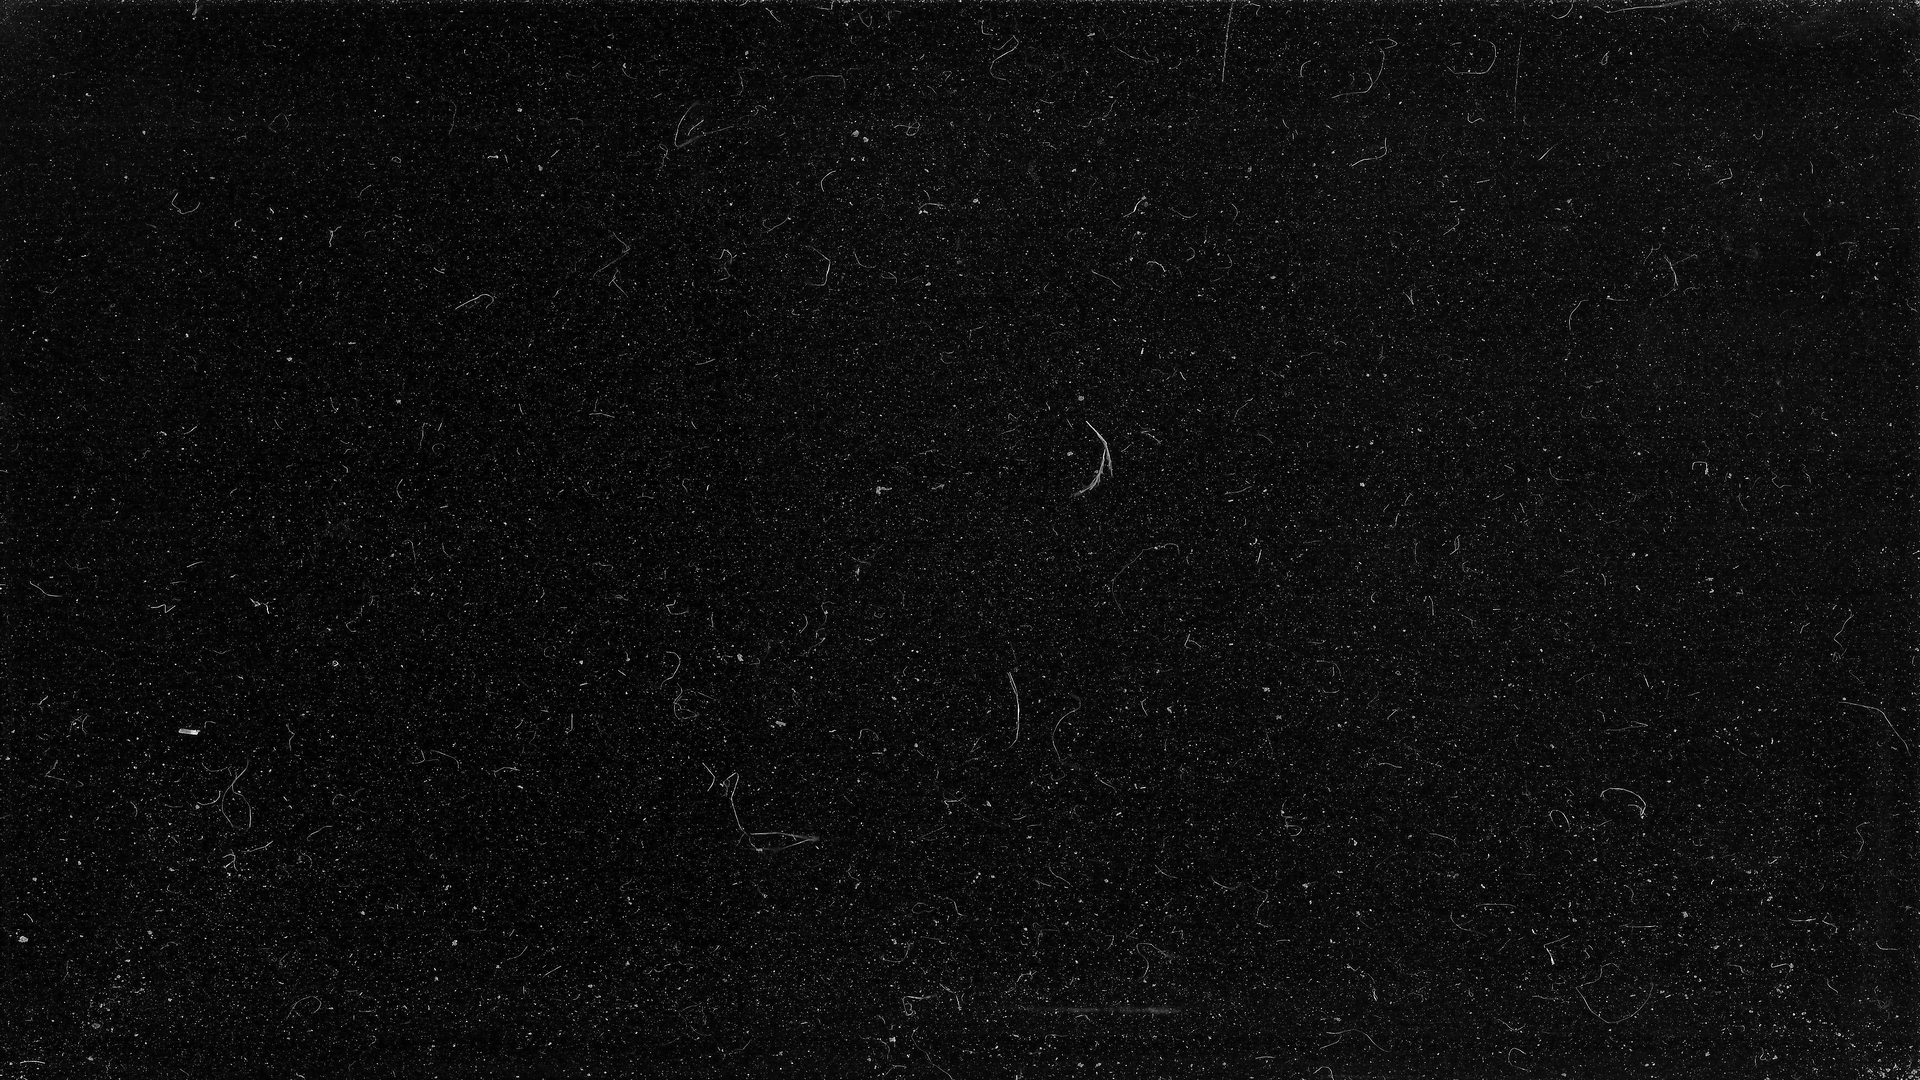
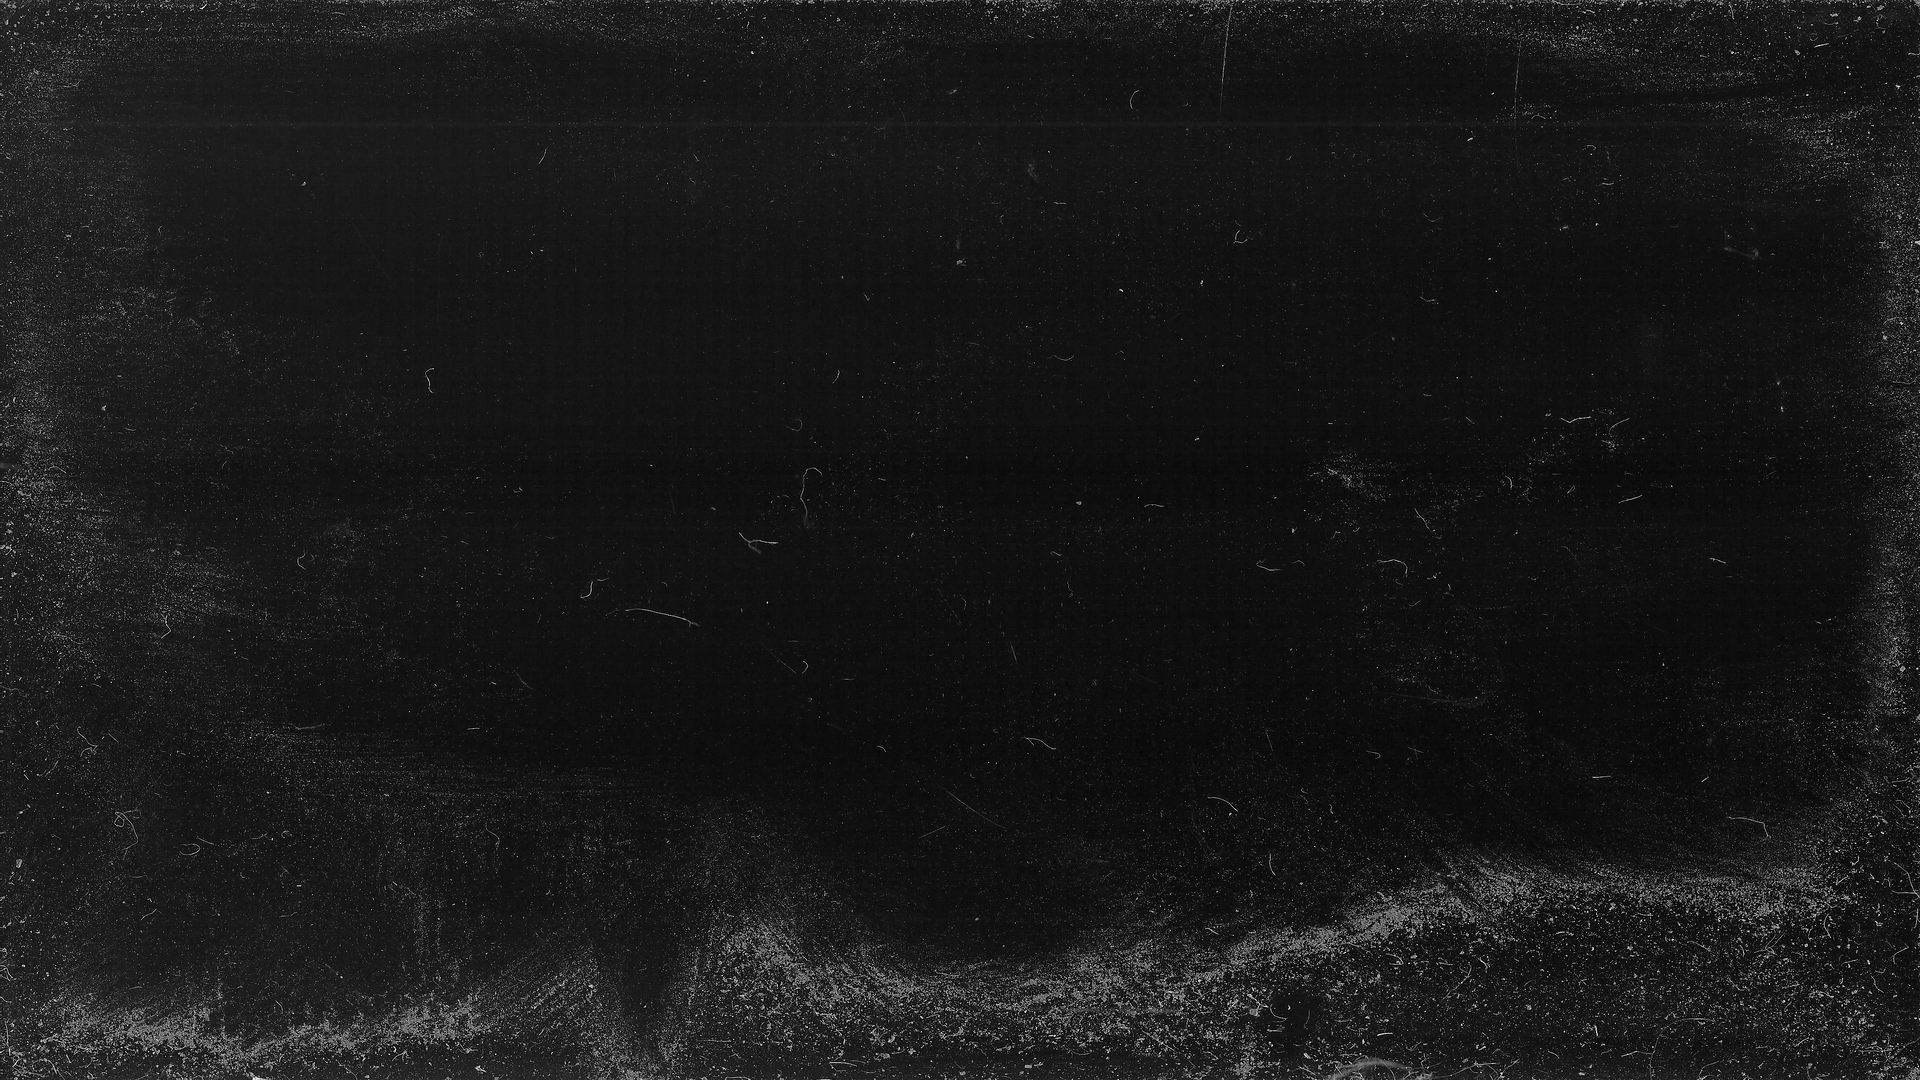
1.2

diff --git a/modules/overlay.js b/modules/overlay.js
@@ -14,7 +14,7 @@ const OVERLAY_CONFIG = {
     FOLDER: 'assets/overlays/',
     EXTENSION: 'jpg',
     BLEND_MODE: 'color-dodge',
-    OPACITY: 1,          // 50% de opacidad
+    OPACITY: 0.7,          // 50% de opacidad
     RANDOM_ORDER: true,    // true = aleatorio después del primero, false = secuencial
     IMAGE_COUNT: 17        // Número de imágenes (1.jpg a 15.jpg)
 };
